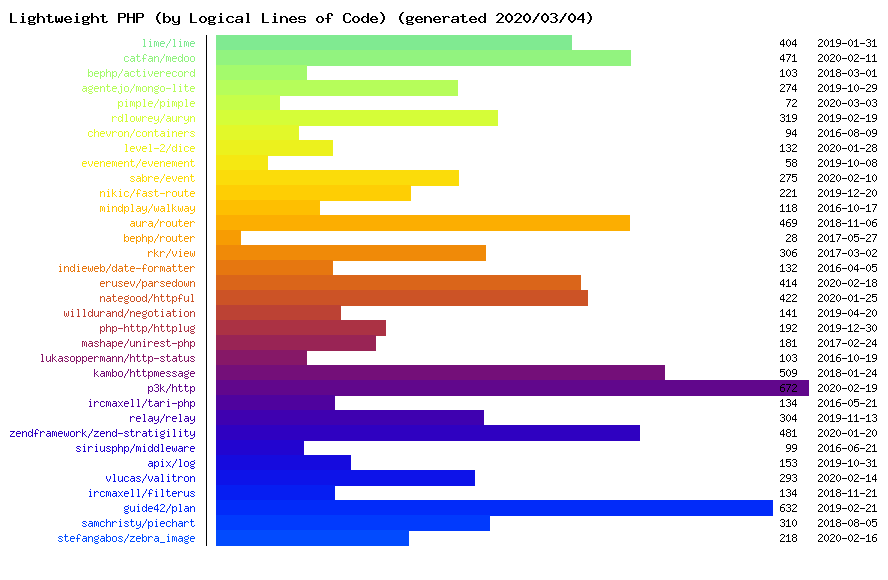
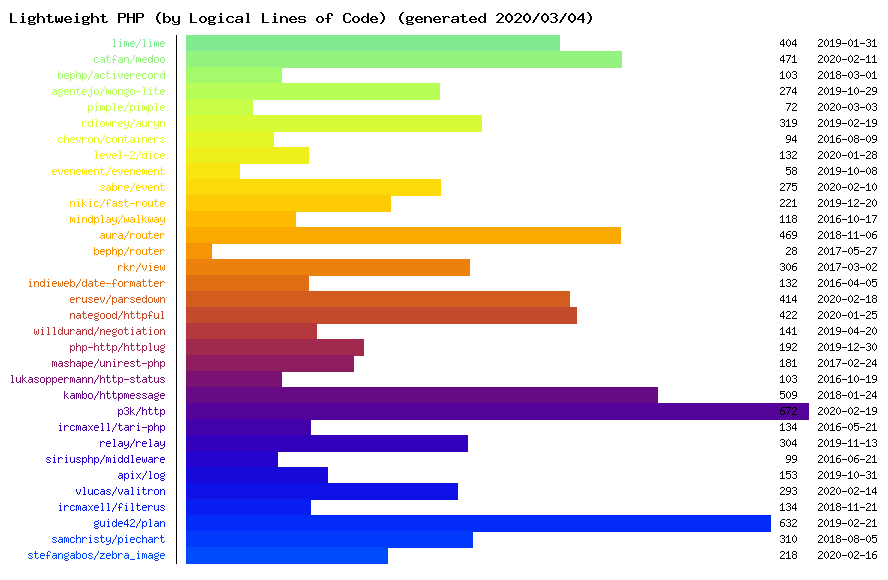
Remove zend-stratigility

Changed region(s): [[0.0304, 0.0621, 1.0, 0.9931], [0.2736, 0.0621, 0.7297, 0.3414]]

diff --git a/README.md b/README.md
@@ -66,7 +66,6 @@ List of lightweight PHP libraries.
 
 * [Tari-PHP](https://github.com/ircmaxell/Tari-PHP) - A middleware proposal for PHP
 * [Relay](https://github.com/relayphp/Relay.Relay) - A PSR-7 middleware dispatcher
-* [zend-stratigility](https://github.com/zendframework/zend-stratigility) - Middleware for PHP built on top of PSR-7
 * [Sirius](https://github.com/siriusphp/middleware) - Lightweight middleware implementation
 
 ## Log
